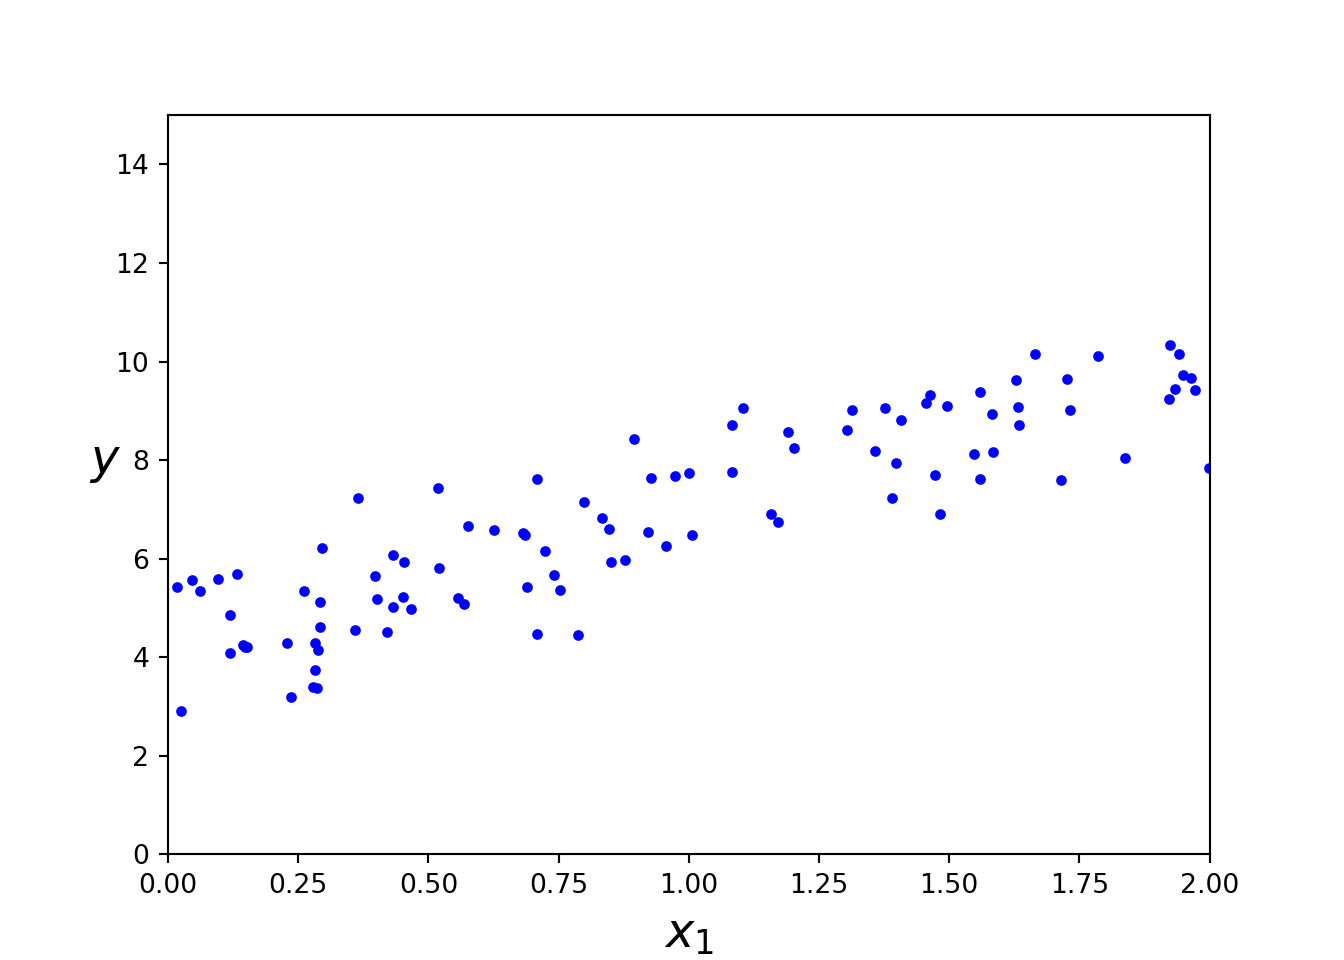
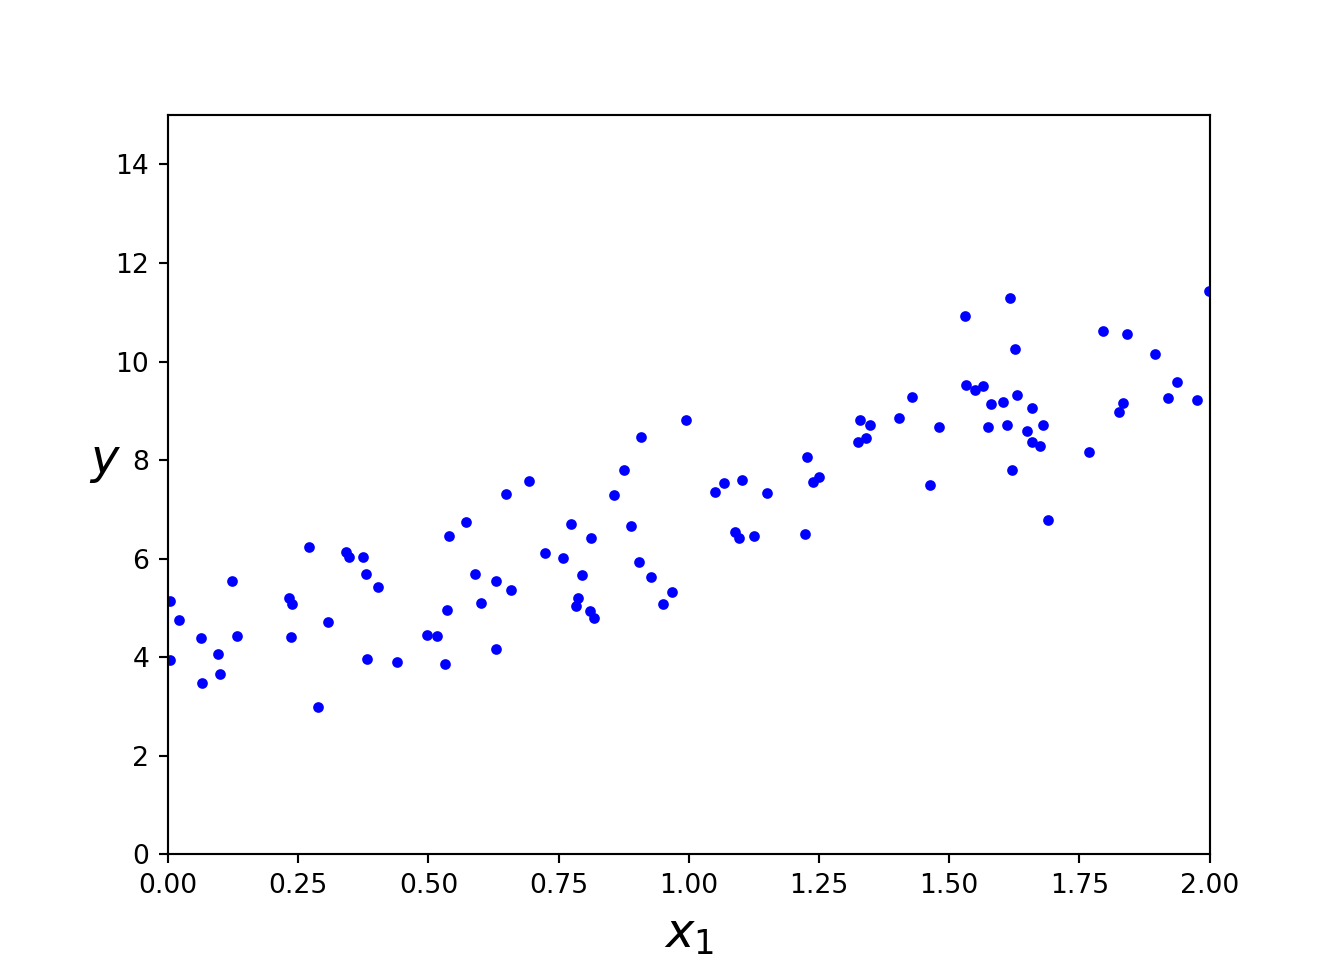
update

diff --git a/content/post/2021-02-08-ch4-hands-on-ml/index.zh-cn.html b/content/post/2021-02-08-ch4-hands-on-ml/index.zh-cn.html
@@ -50,11 +50,8 @@ import matplotlib.pyplot as plt
 x = 2 * np.random.rand(100,1)
 y = 4 + 3 * x + np.random.randn(100,1)
 plt.plot(x, y, &quot;b.&quot;)
-&gt;&gt; [&lt;matplotlib.lines.Line2D object at 0x00000000612B78E0&gt;]
 plt.xlabel(&quot;$x_1$&quot;, fontsize=18)
-&gt;&gt; Text(0.5, 0, &#39;$x_1$&#39;)
 plt.ylabel(&quot;$y$&quot;, rotation=0, fontsize=18)
-&gt;&gt; Text(0, 0.5, &#39;$y$&#39;)
 plt.axis([0, 2, 0, 15])
 &gt;&gt; (0.0, 2.0, 0.0, 15.0)
 plt.show()</code></pre>
@@ -64,24 +61,22 @@ plt.show()</code></pre>
 theta_best = np.linalg.inv(x_b.T.dot(x_b)).dot(x_b.T).dot(y)
 
 theta_best
-&gt;&gt; array([[4.18717865],
-&gt;&gt;        [2.85755675]])</code></pre>
+&gt;&gt; array([[3.86784012],
+&gt;&gt;        [3.12164607]])</code></pre>
 <p><code>np.c_</code>进行的是增加列的操作(R里面的cbind);<code>np.ones((100,1))</code>产生100行1列的矩阵，元素都是1;<code>np.linalg</code>是numpy中线性代数模块;<code>inv</code>是矩阵求逆方法;<code>T</code>是矩阵转置方法;<code>dot</code>是矩阵乘法</p>
 <p>现在我们使用计算出的<span class="math inline">\(\hat \theta\)</span>来预测：</p>
 <pre class="python"><code>x_new = np.array([[0],[2]])
 x_new_b = np.c_[np.ones((2,1)),x_new]
 y_pre = x_new_b.dot(theta_best)
 y_pre
-&gt;&gt; array([[4.18717865],
-&gt;&gt;        [9.90229215]])</code></pre>
+&gt;&gt; array([[ 3.86784012],
+&gt;&gt;        [10.11113225]])</code></pre>
 <pre class="python"><code>plt.plot(x_new,y_pre,&quot;r-&quot;)
-&gt;&gt; [&lt;matplotlib.lines.Line2D object at 0x0000000062EAF910&gt;]
 plt.plot(x,y,&quot;b.&quot;)
-&gt;&gt; [&lt;matplotlib.lines.Line2D object at 0x0000000062EAFD60&gt;]
 plt.axis([0,2,0,15])
 &gt;&gt; (0.0, 2.0, 0.0, 15.0)
 plt.show()</code></pre>
-<p><img src="/post/2021-02-08-ch4-hands-on-ml/index.zh-cn_files/figure-html/unnamed-chunk-1-3.png" width="672" /></p>
+<p><img src="/post/2021-02-08-ch4-hands-on-ml/index.zh-cn_files/figure-html/unnamed-chunk-4-1.png" width="672" /></p>
 <p>在Scikit-Learn中可以使用<code>LinearRegression</code>来方便的进行线性回归的计算：</p>
 <pre class="python"><code>from sklearn.linear_model import LinearRegression
 
@@ -89,10 +84,10 @@ lin_reg = LinearRegression()
 lin_reg.fit(x,y)
 &gt;&gt; LinearRegression()
 lin_reg.intercept_, lin_reg.coef_
-&gt;&gt; (array([4.18717865]), array([[2.85755675]]))
+&gt;&gt; (array([3.86784012]), array([[3.12164607]]))
 lin_reg.predict(x_new)
-&gt;&gt; array([[4.18717865],
-&gt;&gt;        [9.90229215]])</code></pre>
+&gt;&gt; array([[ 3.86784012],
+&gt;&gt;        [10.11113225]])</code></pre>
 <p><code>LinearRegression</code>类是基于<code>scipy.linalg.lstsq</code>函数的，该函数是通过SVD进行计算pseudoinverse(<span class="math inline">\(X^+\)</span>)然后再计算<span class="math inline">\(\hat \theta = X^+y\)</span>,这样计算有两个好处：pseudoinverse的计算比直接计算矩阵的逆效率更高(why?)；当<span class="math inline">\(X^TX\)</span>不可逆的时候Normal Equation是无法计算的，而pseudoinverse是可以计算的</p>
 <p>计算Normal Equation的计算复杂度是比较大的(求矩阵的逆的计算复杂度为<span class="math inline">\(O(n^{2.4})\)</span>~<span class="math inline">\(O(n^{3})\)</span>,使用SVD方法的计算复杂度为<span class="math inline">\(O(n^2)\)</span>)</p>
 </div>
@@ -175,15 +170,12 @@ x = 6 * np.random.rand(m,1) - 3 ##均匀分布
 y = 0.5 * x**2 + x + 2 + np.random.randn(m,1)##正态分布
 
 plt.plot(x, y, &quot;b.&quot;)
-&gt;&gt; [&lt;matplotlib.lines.Line2D object at 0x00000000644ED310&gt;]
 plt.xlabel(&quot;$x_1$&quot;, fontsize=18)
-&gt;&gt; Text(0.5, 0, &#39;$x_1$&#39;)
 plt.ylabel(&quot;$y$&quot;, rotation=0, fontsize=18)
-&gt;&gt; Text(0, 0.5, &#39;$y$&#39;)
 plt.axis([-3, 3, 0, 10])
 &gt;&gt; (-3.0, 3.0, 0.0, 10.0)
 plt.show()</code></pre>
-<p><img src="/post/2021-02-08-ch4-hands-on-ml/index.zh-cn_files/figure-html/unnamed-chunk-1-5.png" width="672" /></p>
+<p><img src="/post/2021-02-08-ch4-hands-on-ml/index.zh-cn_files/figure-html/unnamed-chunk-7-1.png" width="672" /></p>
 <p>使用<code>PolynomialFeatures</code>类将特征加上平方后作为新的特征：</p>
 <pre class="python"><code>from sklearn.preprocessing import PolynomialFeatures
 poly_features = PolynomialFeatures(degree=2,include_bias=False)
@@ -204,19 +196,14 @@ lin_reg.intercept_, lin_reg.coef_
 x_new_poly = poly_features.transform(x_new)
 y_new = lin_reg.predict(x_new_poly)
 plt.plot(x, y, &quot;b.&quot;)
-&gt;&gt; [&lt;matplotlib.lines.Line2D object at 0x00000000645DB550&gt;]
 plt.plot(x_new, y_new, &quot;r-&quot;, linewidth=2, label=&quot;Predictions&quot;)
-&gt;&gt; [&lt;matplotlib.lines.Line2D object at 0x00000000645DB940&gt;]
 plt.xlabel(&quot;$x_1$&quot;, fontsize=18)
-&gt;&gt; Text(0.5, 0, &#39;$x_1$&#39;)
 plt.ylabel(&quot;$y$&quot;, rotation=0, fontsize=18)
-&gt;&gt; Text(0, 0.5, &#39;$y$&#39;)
 plt.legend(loc=&quot;upper left&quot;, fontsize=14)
-&gt;&gt; &lt;matplotlib.legend.Legend object at 0x00000000645DBD60&gt;
 plt.axis([-3, 3, 0, 10])
 &gt;&gt; (-3.0, 3.0, 0.0, 10.0)
 plt.show()</code></pre>
-<p><img src="/post/2021-02-08-ch4-hands-on-ml/index.zh-cn_files/figure-html/unnamed-chunk-1-7.png" width="672" /></p>
+<p><img src="/post/2021-02-08-ch4-hands-on-ml/index.zh-cn_files/figure-html/unnamed-chunk-10-1.png" width="672" /></p>
 <p>需要注意的是：<code>PolynomialFeatures(degree=d)</code>会将原来的n个特征变成<span class="math inline">\(\frac{(n+d)!}{d!n!}\)</span>个特征；比如有两个特征a,b,经过自由度为3的PolynomialFeatures转化后就有10个特征(包括1),要注意特征爆炸的问题</p>
 </div>
 <div id="学习曲线" class="section level2">
@@ -250,7 +237,7 @@ plot_learning_curves(lin_reg,x,y)
 plt.axis([0, 80, 0, 3]) 
 &gt;&gt; (0.0, 80.0, 0.0, 3.0)
 plt.show()        </code></pre>
-<p><img src="/post/2021-02-08-ch4-hands-on-ml/index.zh-cn_files/figure-html/unnamed-chunk-1-9.png" width="672" /></p>
+<p><img src="/post/2021-02-08-ch4-hands-on-ml/index.zh-cn_files/figure-html/unnamed-chunk-11-1.png" width="672" /></p>
 <p>当只有一两个训练数据的时候，模型拟合的非常好，同时由于训练集较少，泛化能力较弱所以在验证集中表现不好；当训练集逐渐增大，一方面由于数据的噪音，另一方面因为模型是线性的，而数据不是线性的，所以模型在训练集上的误差上升，但是由于训练集增多，泛化能力会一定程度的上升，所以在验证集上的误差降低，最终两者都到达一个平台</p>
 <p>这个学习曲线是一个典型的欠拟合的模型的特征：<strong>两个曲线都到达一个平台；并且两者比较接近，都比较高</strong></p>
 <p>接下来看一下有10个自由度的多项式回归模型的学习曲线：</p>
@@ -265,7 +252,7 @@ plot_learning_curves(polynomial_regression, x, y)
 plt.axis([0, 80, 0, 3])
 &gt;&gt; (0.0, 80.0, 0.0, 3.0)
 plt.show()           </code></pre>
-<p><img src="/post/2021-02-08-ch4-hands-on-ml/index.zh-cn_files/figure-html/unnamed-chunk-1-11.png" width="672" /></p>
+<p><img src="/post/2021-02-08-ch4-hands-on-ml/index.zh-cn_files/figure-html/unnamed-chunk-12-1.png" width="672" /></p>
 <p>这个学习曲线也有两个特征：</p>
 <ul>
 <li>在训练集上的误差比上面的线性回归模型要低</li>
@@ -363,6 +350,65 @@ elastic_net = ElasticNet(alpha=0.1,l1_ratio=0.5)##l1_ratio指的是r
 elastic_net.fit(x,y)
 &gt;&gt; ElasticNet(alpha=0.1)
 elastic_net.predict([[1.5]])
-&gt;&gt; array([4.52788619])</code></pre>
+
+##也可以使用SGDRgressor
+&gt;&gt; array([4.52788619])
+sgd_elastic = SGDRegressor(penalty=&quot;elasticnet&quot;,alpha=0.1,l1_ratio=0.5)
+sgd_elastic.fit(x,y.ravel())
+&gt;&gt; SGDRegressor(alpha=0.1, l1_ratio=0.5, penalty=&#39;elasticnet&#39;)
+sgd_elastic.predict([[1.5]])
+&gt;&gt; array([4.51766322])</code></pre>
+</div>
+<div id="early-stopping" class="section level3">
+<h3>Early Stopping</h3>
+<p>另一个方法去正则化迭代的学习算法(如梯度下降)是：当验证集误差达到最小值的时候就停止训练；这种方法叫做<strong>early stopping</strong>,如下图所示：</p>
+<p><img src="https://picgo-wutao.oss-cn-shanghai.aliyuncs.com/img/image-20210304083008485.png" /></p>
+<p>当学习算法学习的时候，在训练集和验证集上的误差都会降低，但是一段时间之后会出现在验证集上的误差上升的情况，这意味着模型开始过拟合，因此最好在未过拟合之前就停止训练模型(验证集误差最低)</p>
+<p>注意：在随机梯度下降或者小批次梯度下降中，曲线不会像上图那样平滑，因此很难判定是否达到最小值；一个解决方法就是：当训练一段时间之后，验证集的误差一直比最小值要高(每一个epoch之后就把验证集误差和之前所有的误差比较，看看是不是最小值，进行迭代更新)，就停止训练，记录下验证集误差最小时的模型参数</p>
+<pre class="python"><code>##data
+np.random.seed(42)
+m = 100
+X = 6 * np.random.rand(m, 1) - 3
+y = 2 + X + 0.5 * X**2 + np.random.randn(m, 1)
+
+X_train, X_val, y_train, y_val = train_test_split(X[:50], y[:50].ravel(), test_size=0.5, random_state=10)</code></pre>
+<pre class="python"><code>from copy import deepcopy
+from sklearn.preprocessing import StandardScaler
+
+##数据预处理
+poly_scaler = Pipeline([
+        (&quot;poly_features&quot;, PolynomialFeatures(degree=90, include_bias=False)),
+        (&quot;std_scaler&quot;, StandardScaler())
+    ])
+
+X_train_poly_scaled = poly_scaler.fit_transform(X_train)
+X_val_poly_scaled = poly_scaler.transform(X_val)
+
+sgd_reg = SGDRegressor(max_iter=1, tol=-np.infty, warm_start=True,
+                       penalty=None, learning_rate=&quot;constant&quot;, eta0=0.0005, random_state=42)
+
+minimum_val_error = float(&quot;inf&quot;)
+best_epoch = None
+best_model = None
+for epoch in range(1000):
+    sgd_reg.fit(X_train_poly_scaled, y_train)  # continues where it left off
+    y_val_predict = sgd_reg.predict(X_val_poly_scaled)
+    val_error = mean_squared_error(y_val, y_val_predict)
+    if val_error &lt; minimum_val_error:
+        minimum_val_error = val_error
+        best_epoch = epoch
+        best_model = deepcopy(sgd_reg)</code></pre>
+<pre class="python"><code>best_epoch
+&gt;&gt; 239
+minimum_val_error
+&gt;&gt; 1.3513110512453865</code></pre>
+<p>首先预处理步骤对数据进行多项式转化，然后进行归一化；SGDRegressor参数中设置max_iter=1意思是每次训练只进行一个epoch(因为后面显式地进行epoch的迭代),tol前面讲过(如果在某一个epoch上损失函数下降小于tol的数值，则训练停止),warm_start=T表示调用fit时会使用上次训练得到的模型参数作为初始值继续进行训练(热启动),random_state表示当对每个新的epoch都会进行shuffle(默认)时取的随机种子数，来保证结果可重复</p>
+</div>
+</div>
+<div id="逻辑回归" class="section level2">
+<h2>逻辑回归</h2>
+<p>逻辑回归可以用来估计某个实例属于某一类别的概率，如果概率大于50%，则认为该实例属于该类(1),否则不属于该类(0),因此是二分类的分类器</p>
+<div id="估计概率" class="section level3">
+<h3>估计概率</h3>
 </div>
 </div>
